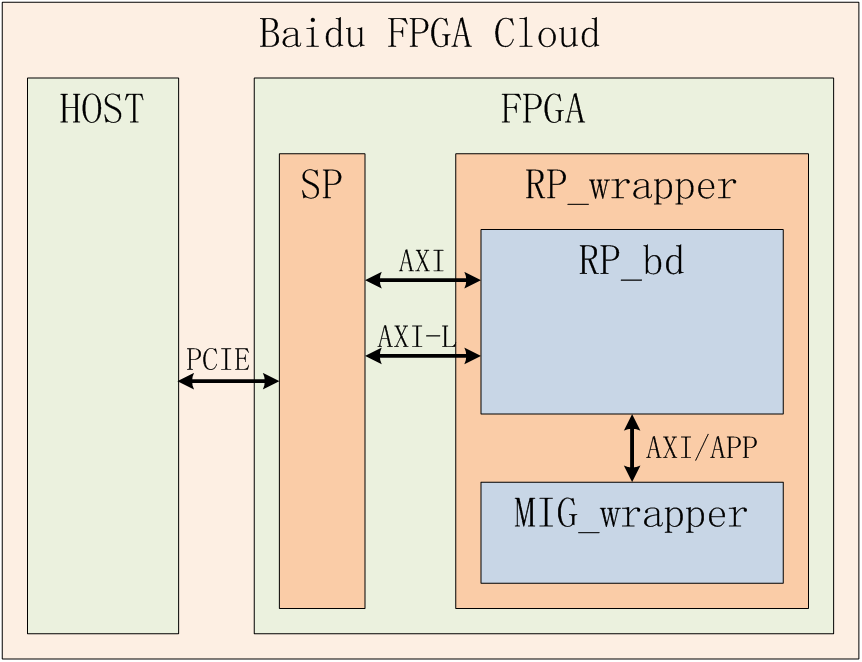
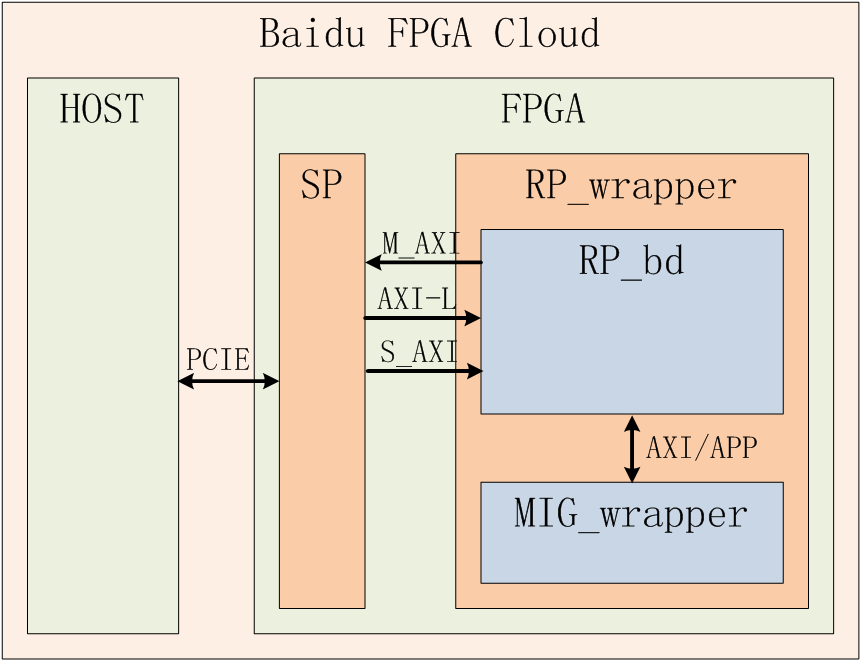
update document of project structure: adding rp axi master

Changed region(s): [[0.4223, 0.3323, 0.5731, 0.574], [0.7239, 0.6949, 0.7541, 0.7251]]

diff --git a/hdk/doc/说明-FPGA云镜像工程结构.md b/hdk/doc/说明-FPGA云镜像工程结构.md
@@ -6,16 +6,18 @@ FPGA云镜像工程的总体框架如下图所示，FPGA逻辑包含了静态和
 
 动态部分（RP_wrapper）可由用户自定义生成，包含了RP_bd和一些支撑模块如MIG_wrapper和debug bridge(图中没画出来)。我们建议用户不要修改RP_wrapper中的支撑模块，只实现RP_bd模块即可。如果RP_bd的逻辑不需要DDR，可在build/scripts/step_00_setup.tcl中关闭所有的DDR通道，FPGA云镜像工程在build环节就不会生成DDR控制器占用逻辑资源。
 
-SP与RP_bd之间包含一个256Bit的AXI4总线和一个32bit的AXI-lite总线，两个AXI总线的master端都位于SP，slave端都在RP_bd。
+SP与RP_bd之间包含2个256Bit的AXI4总线和一个32bit的AXI-lite总线，其中AXI_rp_slave和AXI-lite总线的master端位于SP，slave端在RP_bd。AXI_rp_master总线的master端位于RP_bd，slave端在SP。
 
- - AXI4是xdma输出的总线，host发出的dma操作，所需访问card空间的读写请求会出现在该总线上。 
+ - AXI_rp_slave是xdma输出的总线，host发出的dma操作，所需访问card空间的读写请求会出现在该总线上。 
  - AXI-lite的地址范围是64KB，host访问bar0空间64KB ~ 128KB的地址范围的请求会出现在该总线上。 
+ - AXI_rp_master给RP_bd提供了发起AXI请求的接口，动态逻辑可实现主动的h2c和c2h的DMA请求，而无需host端软件发起。
 
 # 2.RP_bd模块的接口
 在制作FPGA云服务镜像时，您开发的逻辑就是RP_wrapper中的RP_bd模块。这意味着用户逻辑的顶层模块，接口名称和信号位宽需与RP_bd模块保持一致。下表总结了RP_bd模块的所有接口信号。
 
-名称 | 方向 | 功能说明 
+名称 | 方向 | 功能说明
 ----| ---- |----
+M_AXI_*	| Master	| 256bit的axi4总线，支持由卡上逻辑发起AXI操作，可用于动态逻辑与主机之间交换批量数据。
 S_AXI_*	| Slave	| 256bit的axi4总线，支持xdma的dma操作，可用于动态逻辑与主机之间交换批量数据。
 S_AXI_LITE_* 	| 	Slave	| 	32bit的axi lite总线，支持xdma的reg操作，可用于动态逻辑与主机之间传输配置命令。这段空间在bar上的偏移地址为64K ~ 128K。用户可以通过在软件侧读写地址为64K~128K之间的寄存器来访问该AXI_LITE总线上的设备。
 s_axi_aclk	| 	input	| 	两个AXI总线的工作时钟，250M。
